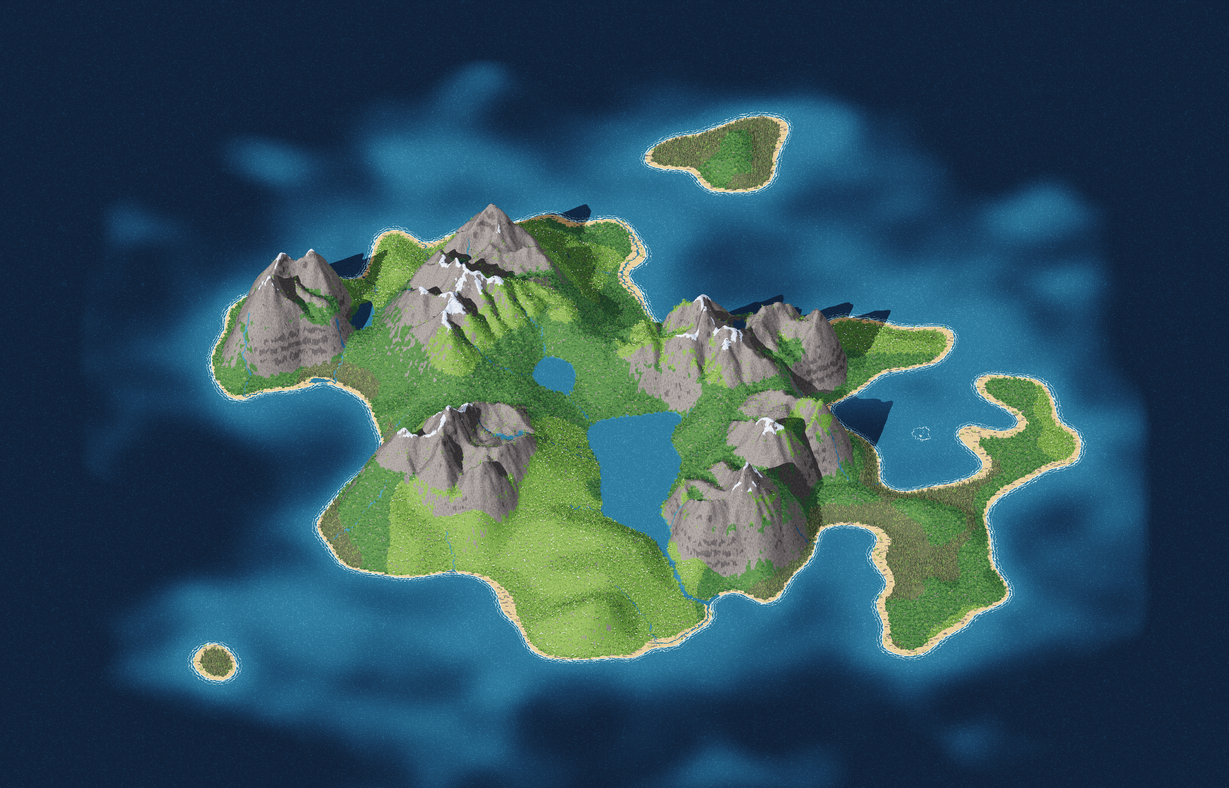
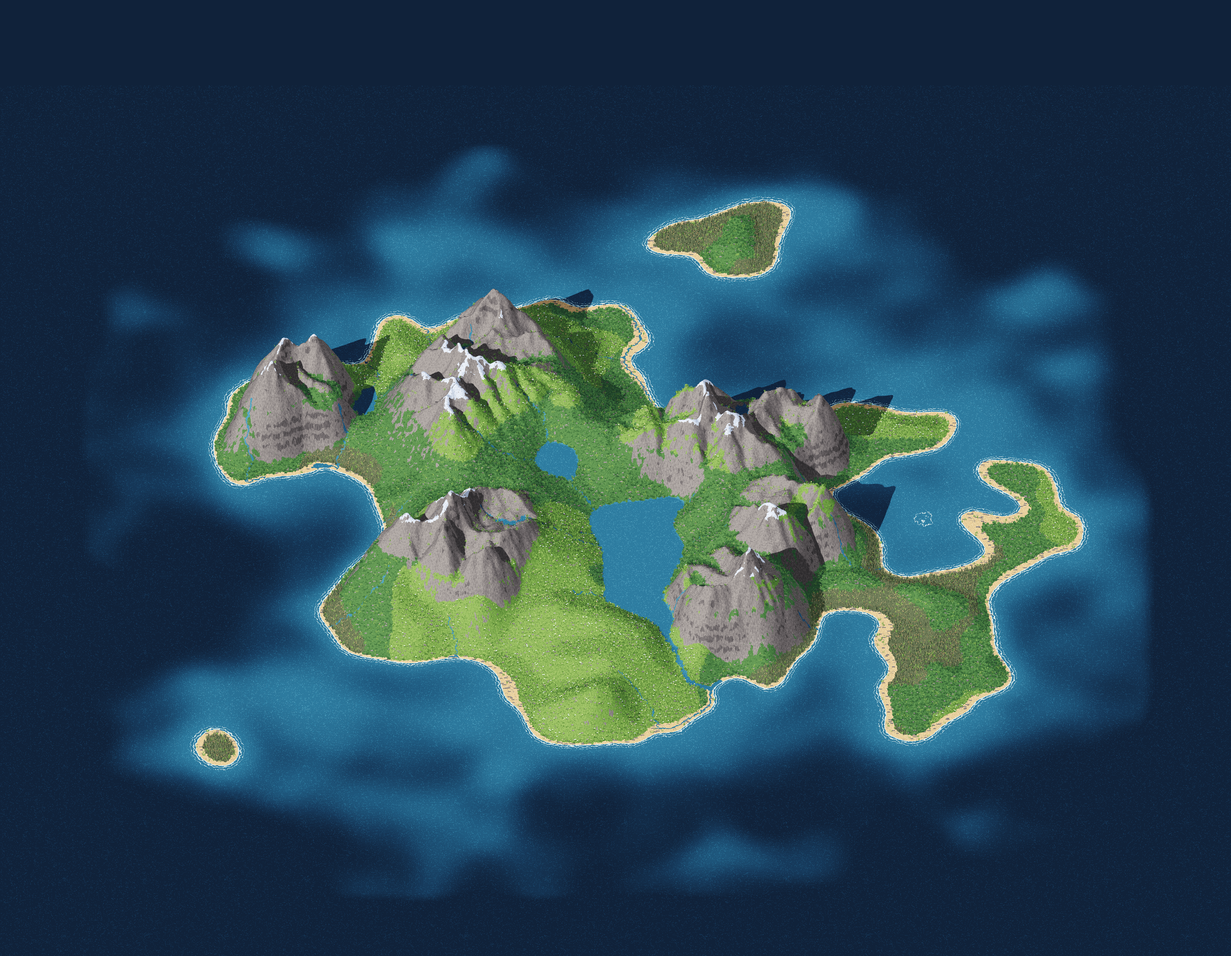
feat: fade the title still into the live island
The still backdrop couldn't animate the water, or anything added later. The
title screen still shows it on the first frame, but now generates the "varde"
island in the background as before, and fades the still out over the live
terrain at the same pan position once it's ready. Later title screens show
the island live at once.

The still now covers the whole grid from a fixed corner, so the backdrop maps
image pixels to camera focus without extra data. The view starts further in,
so a launch opens with land on screen. The render script also checks that
the PNG saved and allows for any camera tilt when placing the top edge.

diff --git a/SPEC.md b/SPEC.md
@@ -8,7 +8,7 @@ You land on an unknown island with a blank map. Somewhere on the true summit sta
 
 The game is calm. There are no supplies, no combat and no way to fail. Curiosity about the next varde and the unmapped land is the only pressure. Each run is a new island from a new seed, and a run lasts about 20 to 40 minutes.
 
-A run starts from a title screen with "Ny øy" and a small, optional seed field below it. An empty field gives a random seed, a number is the seed itself, and any other text is hashed into one. Behind the menu, the island from seed "varde" pans by at zoom 256 and 10 pixels per second. The view starts at a random edge of the land, heads in toward the middle, and turns back in a slow arc whenever it drifts out past the land. The backdrop is a still image, `game/backdrop.png`, that `godot -s game/render_backdrop.gd` renders through the game camera ahead of time, so it shows on the first frame. The image doesn't animate the water, and it goes stale when the generator or the look changes, so render it again then. While the run's island generates, the backdrop stays on screen under a 60% veil of dark sea, with "Kartlegger øya", a progress bar and the name of the running step. The bar fills by each step's typical share of the time, and within a step by the time since it started. Once the island shows, Escape pauses the run behind a menu with "Fortsett" and "Avslutt". "Avslutt" ends the run and goes back to the title screen, and there is no saving yet.
+A run starts from a title screen with "Ny øy" and a small, optional seed field below it. An empty field gives a random seed, a number is the seed itself, and any other text is hashed into one. Behind the menu, the island from seed "varde" pans by at zoom 256 and 10 pixels per second. The view starts at a random point toward the edge of the land, heads in toward the middle, and turns back in a slow arc whenever it drifts out past the land. A still image of the whole grid, `game/backdrop.png`, shows from the first frame. `godot -s game/render_backdrop.gd` renders it through the game camera ahead of time. Meanwhile the island generates on a thread, and once it is ready the still fades out over the live terrain at the same spot, so the water moves. Later visits to the title screen reuse the island and show it live at once. Render the still again after a change to the generator or the look, or it won't match the live island when it fades. While the run's island generates, the backdrop stays on screen under a 60% veil of dark sea, with "Kartlegger øya", a progress bar and the name of the running step. The bar fills by each step's typical share of the time, and within a step by the time since it started. Once the island shows, Escape pauses the run behind a menu with "Fortsett" and "Avslutt". "Avslutt" ends the run and goes back to the title screen, and there is no saving yet.
 
 ## Core mechanics
 
